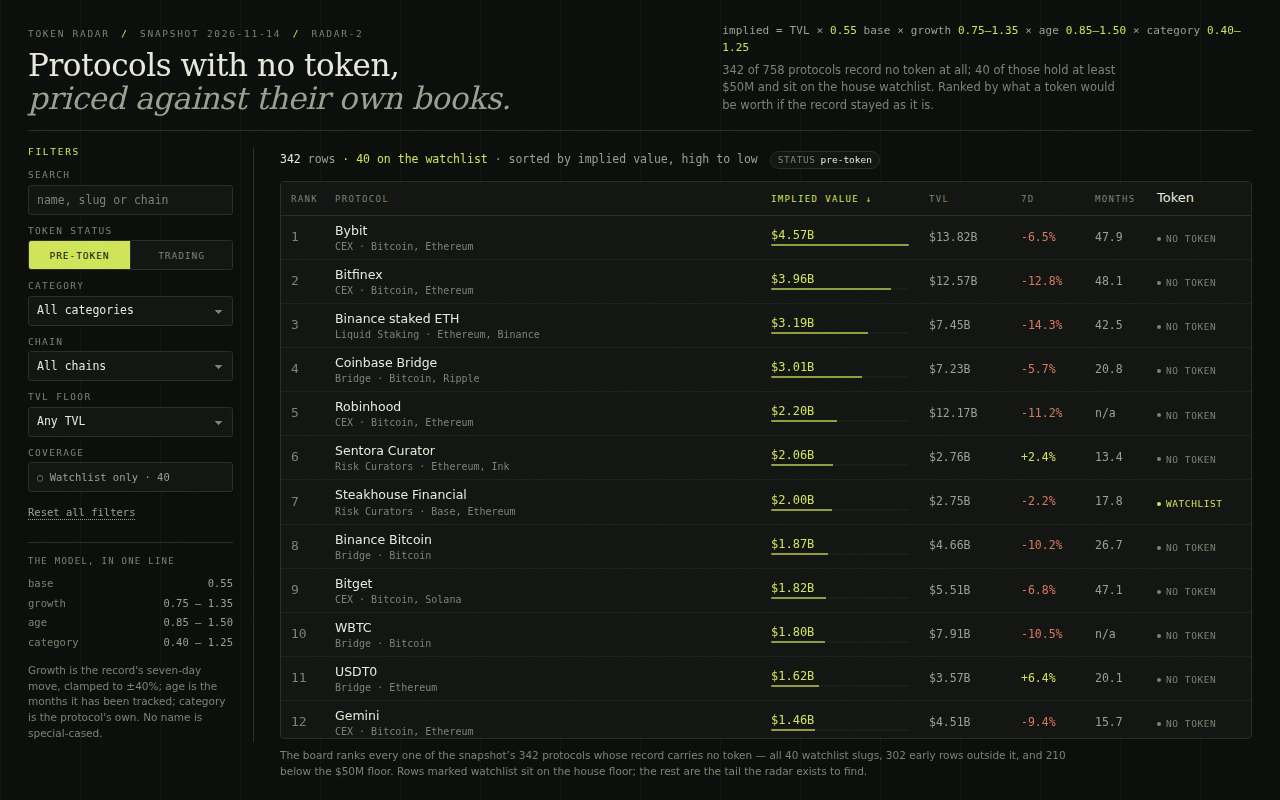
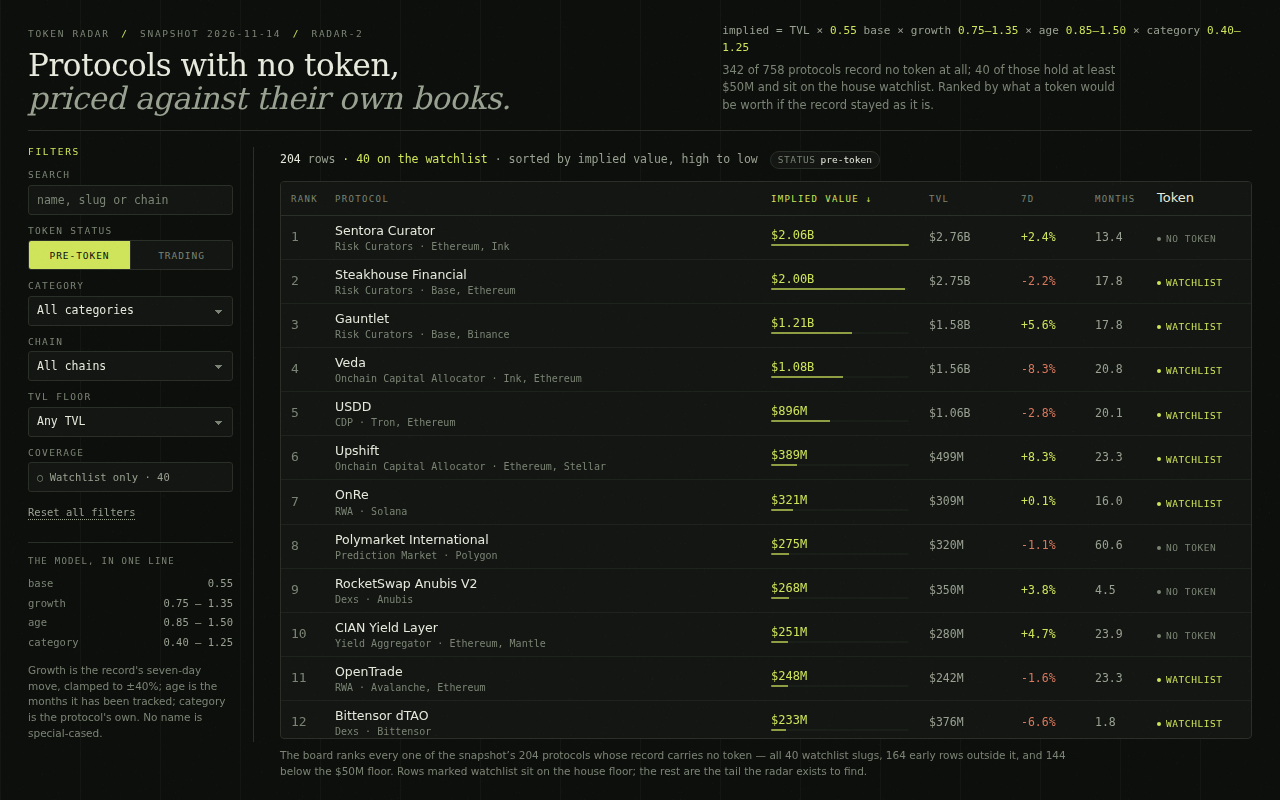
Rank launch candidates only: receipts, bridges and exchange desks shown apart

diff --git a/lib/model.ts b/lib/model.ts
@@ -755,6 +755,7 @@ export function boardIssue(board: BoardRow[], snapshot: Snapshot): string | null
 
 /** The protocols the board ranks, strongest implied value first, with ranks 1..N. */
 export function buildBoard(snapshot: Snapshot): BoardRow[] {
+  const NOT_A_CANDIDATE = new Set(['cex', 'receipt', 'bridge']);
   const index = bySlug(snapshot.protocols);
   const chosen = new Map<string, SnapshotProtocol>();
   // Every record without a token. The watchlist is a subset of these by construction; adding the
@@ -764,7 +765,16 @@ export function buildBoard(snapshot: Snapshot): BoardRow[] {
     const p = index.get(slug);
     if (p !== undefined) chosen.set(slug, p);
   }
-  for (const p of snapshot.protocols) if (isPreToken(p)) chosen.set(p.slug, p);
+  // Every record without a token that is a launch candidate. A receipt, a bridge or an exchange desk
+  // is not a protocol that may issue its own token: its record carries no token because it wraps or
+  // bridges one that already trades, or because the exchange's own token trades elsewhere. Ranking
+  // them first would put a wrapped asset at the top of a pre-token radar, so they are counted and
+  // shown apart instead — the watchlist already excludes them by the house rule.
+  for (const p of snapshot.protocols) {
+    if (!isPreToken(p)) continue;
+    if (NOT_A_CANDIDATE.has(planKind(p))) continue;
+    chosen.set(p.slug, p);
+  }
 
   const scored = [...chosen.values()].map((p) => ({ p, ...score(p, snapshot.as_of) }));
   scored.sort((a, b) => b.implied - a.implied || b.p.tvl_usd - a.p.tvl_usd || (a.p.slug < b.p.slug ? -1 : a.p.slug > b.p.slug ? 1 : 0));
@@ -827,6 +837,12 @@ export function liveRows(snapshot: Snapshot, cap: number): LiveRow[] {
 }
 
 /** Everything the dashboard renders, from the snapshot. */
+/** How many pre-token records this board leaves out because they are not launch candidates. */
+export function countNotCandidates(snapshot: Snapshot): number {
+  const NOT_A_CANDIDATE = new Set(['cex', 'receipt', 'bridge']);
+  return snapshot.protocols.filter((p) => isPreToken(p) && NOT_A_CANDIDATE.has(planKind(p))).length;
+}
+
 export function buildRadar(snapshot: Snapshot): { board: BoardRow[]; radar: RadarData } {
   const board = buildBoard(snapshot);
   const live = liveRows(snapshot, 40);
@@ -844,6 +860,7 @@ export function buildRadar(snapshot: Snapshot): { board: BoardRow[]; radar: Rada
       board: board.length,
       early: board.filter((r) => !r.on_watchlist).length,
       trading: snapshot.protocols.length - noToken,
+      excluded: countNotCandidates(snapshot),
       no_token: noToken,
       floor_below: board.filter((r) => r.tvl_usd < snapshot.floor_usd).length,
     },
